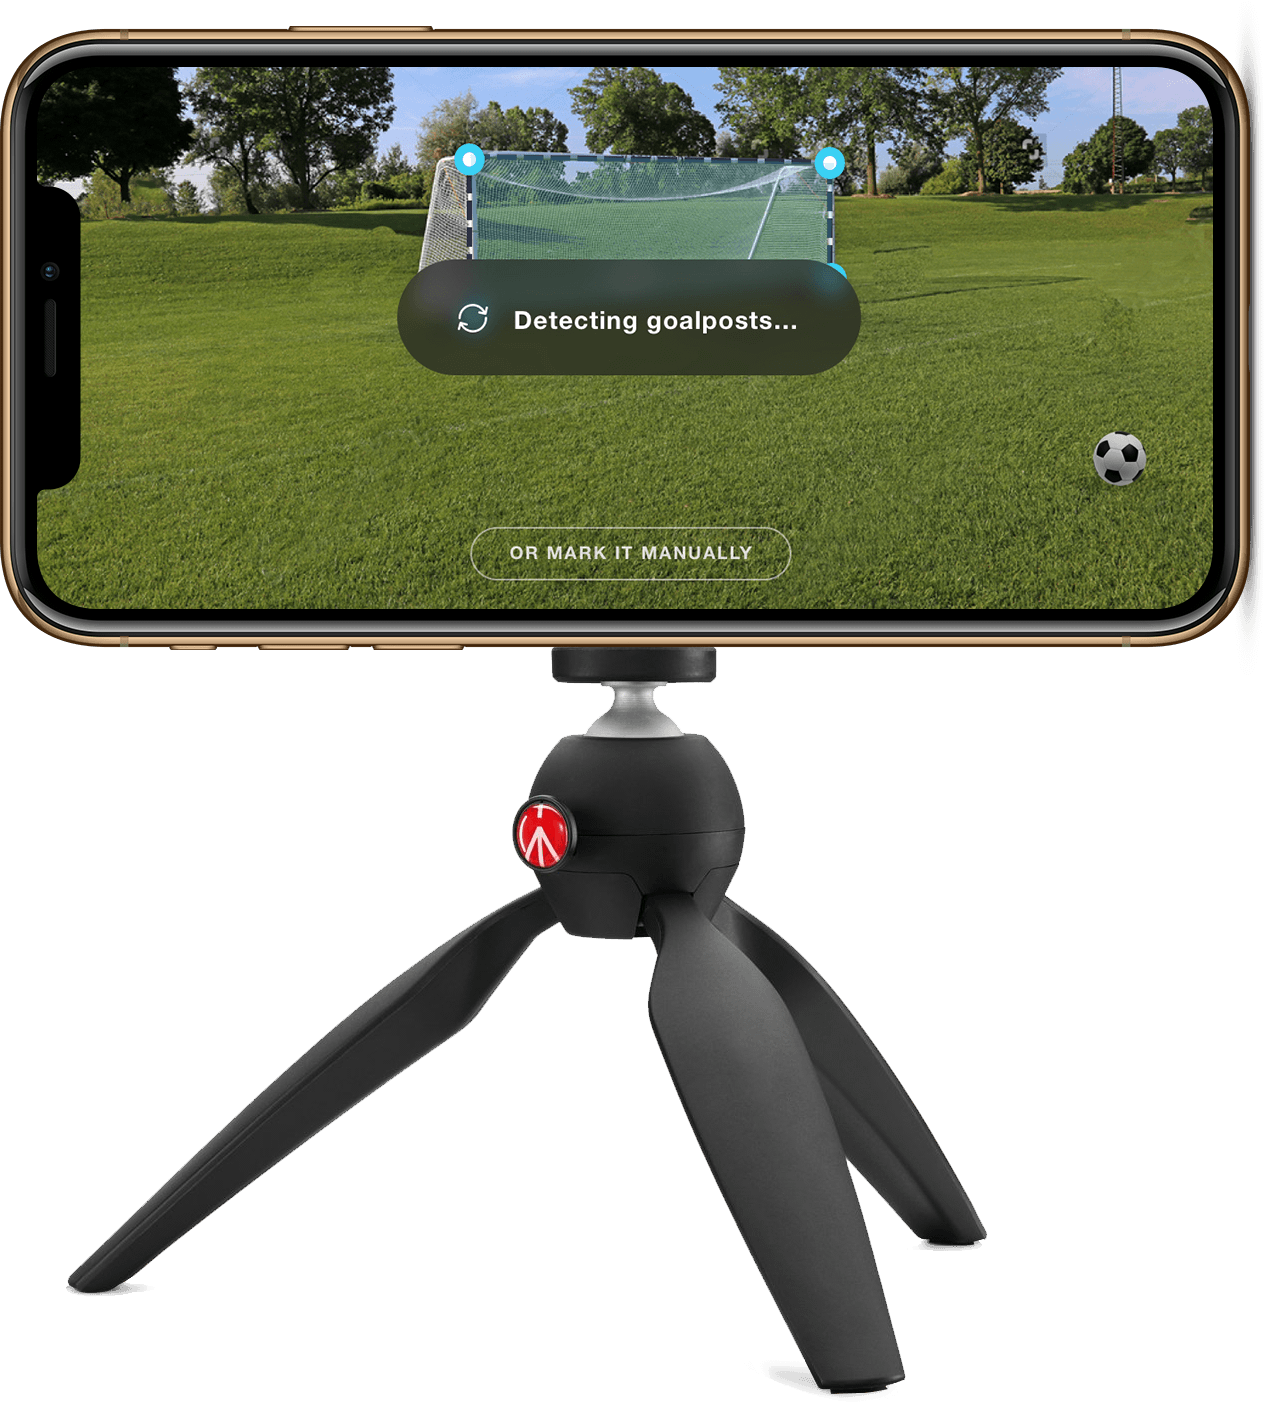
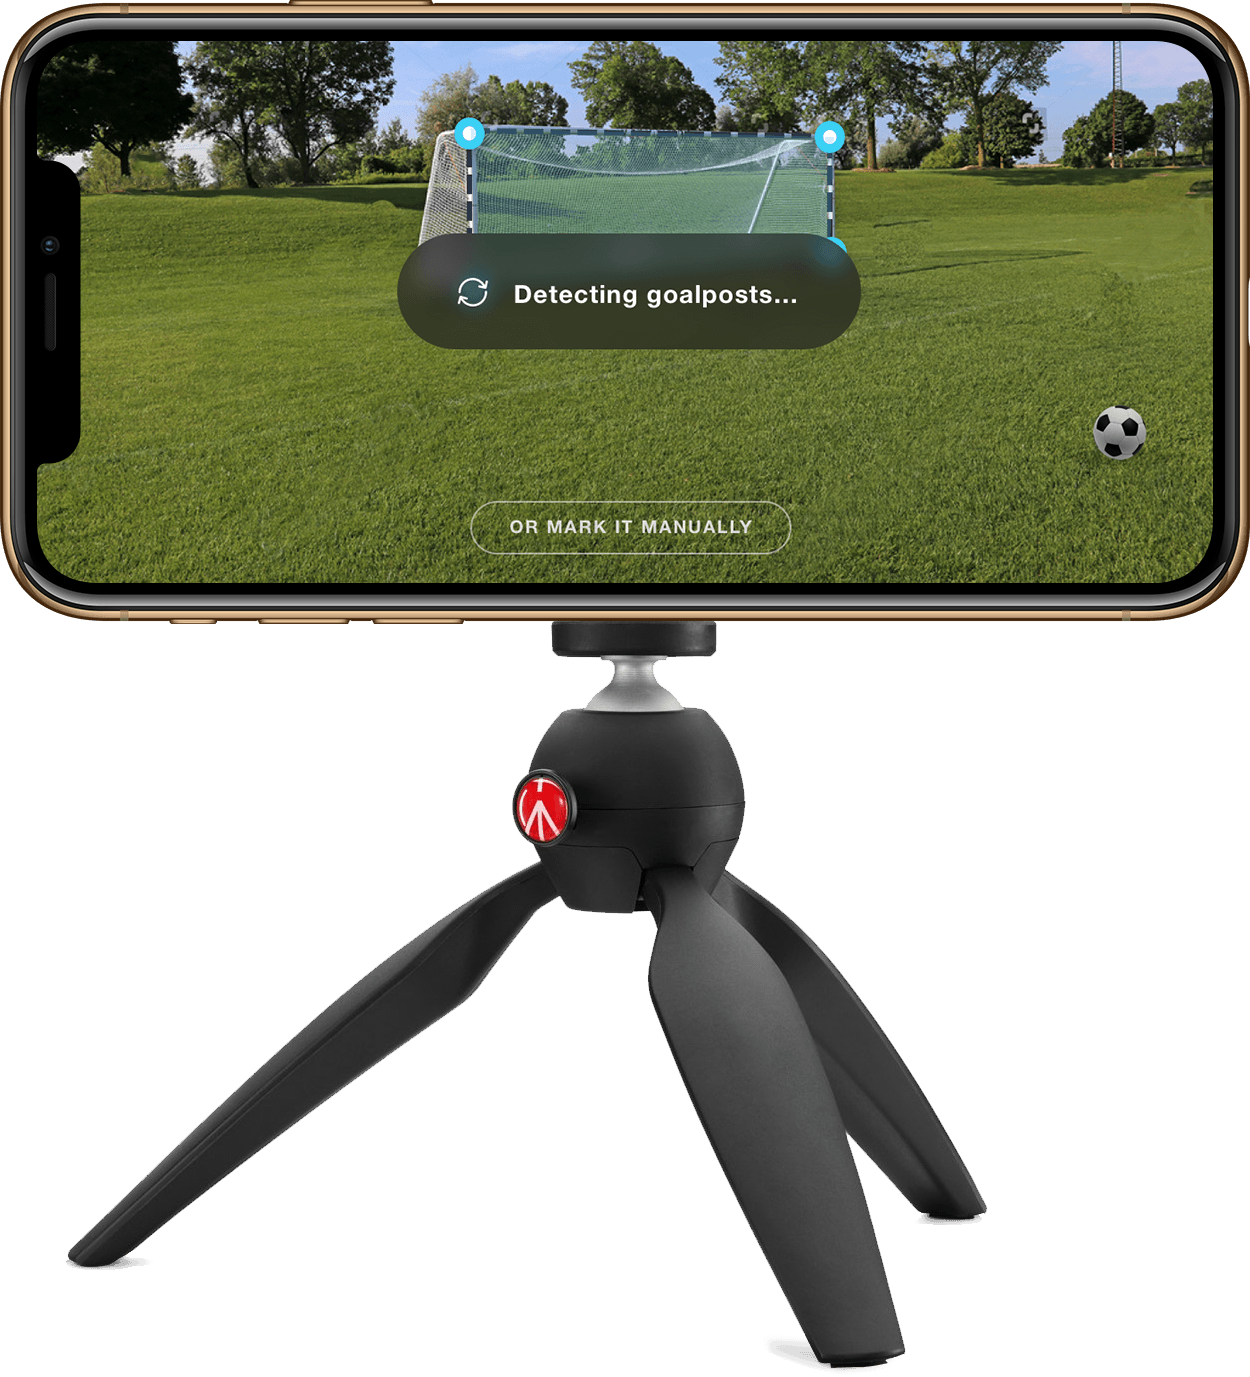
Tweak some more images

diff --git a/melewi/main.less b/melewi/main.less
@@ -117,8 +117,15 @@
 .imgDevice {
     height: 100%;
     z-index: 1;
-    img {
+    margin: 0 0 -150px -200px;
+    img:last-child {
         height: 100%;
+    }
+    .bubbleTop {
+        position: absolute;
+        bottom: 200px;
+        left: 220px;
+        height: 32px;
     }
     // @marginLeft: 140px;
     // @marginRight: 0px;

diff --git a/melewi/index.html b/melewi/index.html
@@ -123,6 +123,7 @@
                             </svg>
                         </div>
                         <div class="imgDevice">
+                            <img class="bubbleTop" src="img/bubbletopdevice.png" />
                             <img src="img/topdevice.png" />
                         </div>
                     </div>

diff --git a/melewi/main.css b/melewi/main.css
@@ -67,9 +67,16 @@
 .imgDevice {
   height: 100%;
   z-index: 1;
+  margin: 0 0 -150px -200px;
 }
-.imgDevice img {
+.imgDevice img:last-child {
   height: 100%;
+}
+.imgDevice .bubbleTop {
+  position: absolute;
+  bottom: 200px;
+  left: 220px;
+  height: 32px;
 }
 @keyframes pulseDevice {
   0% {
